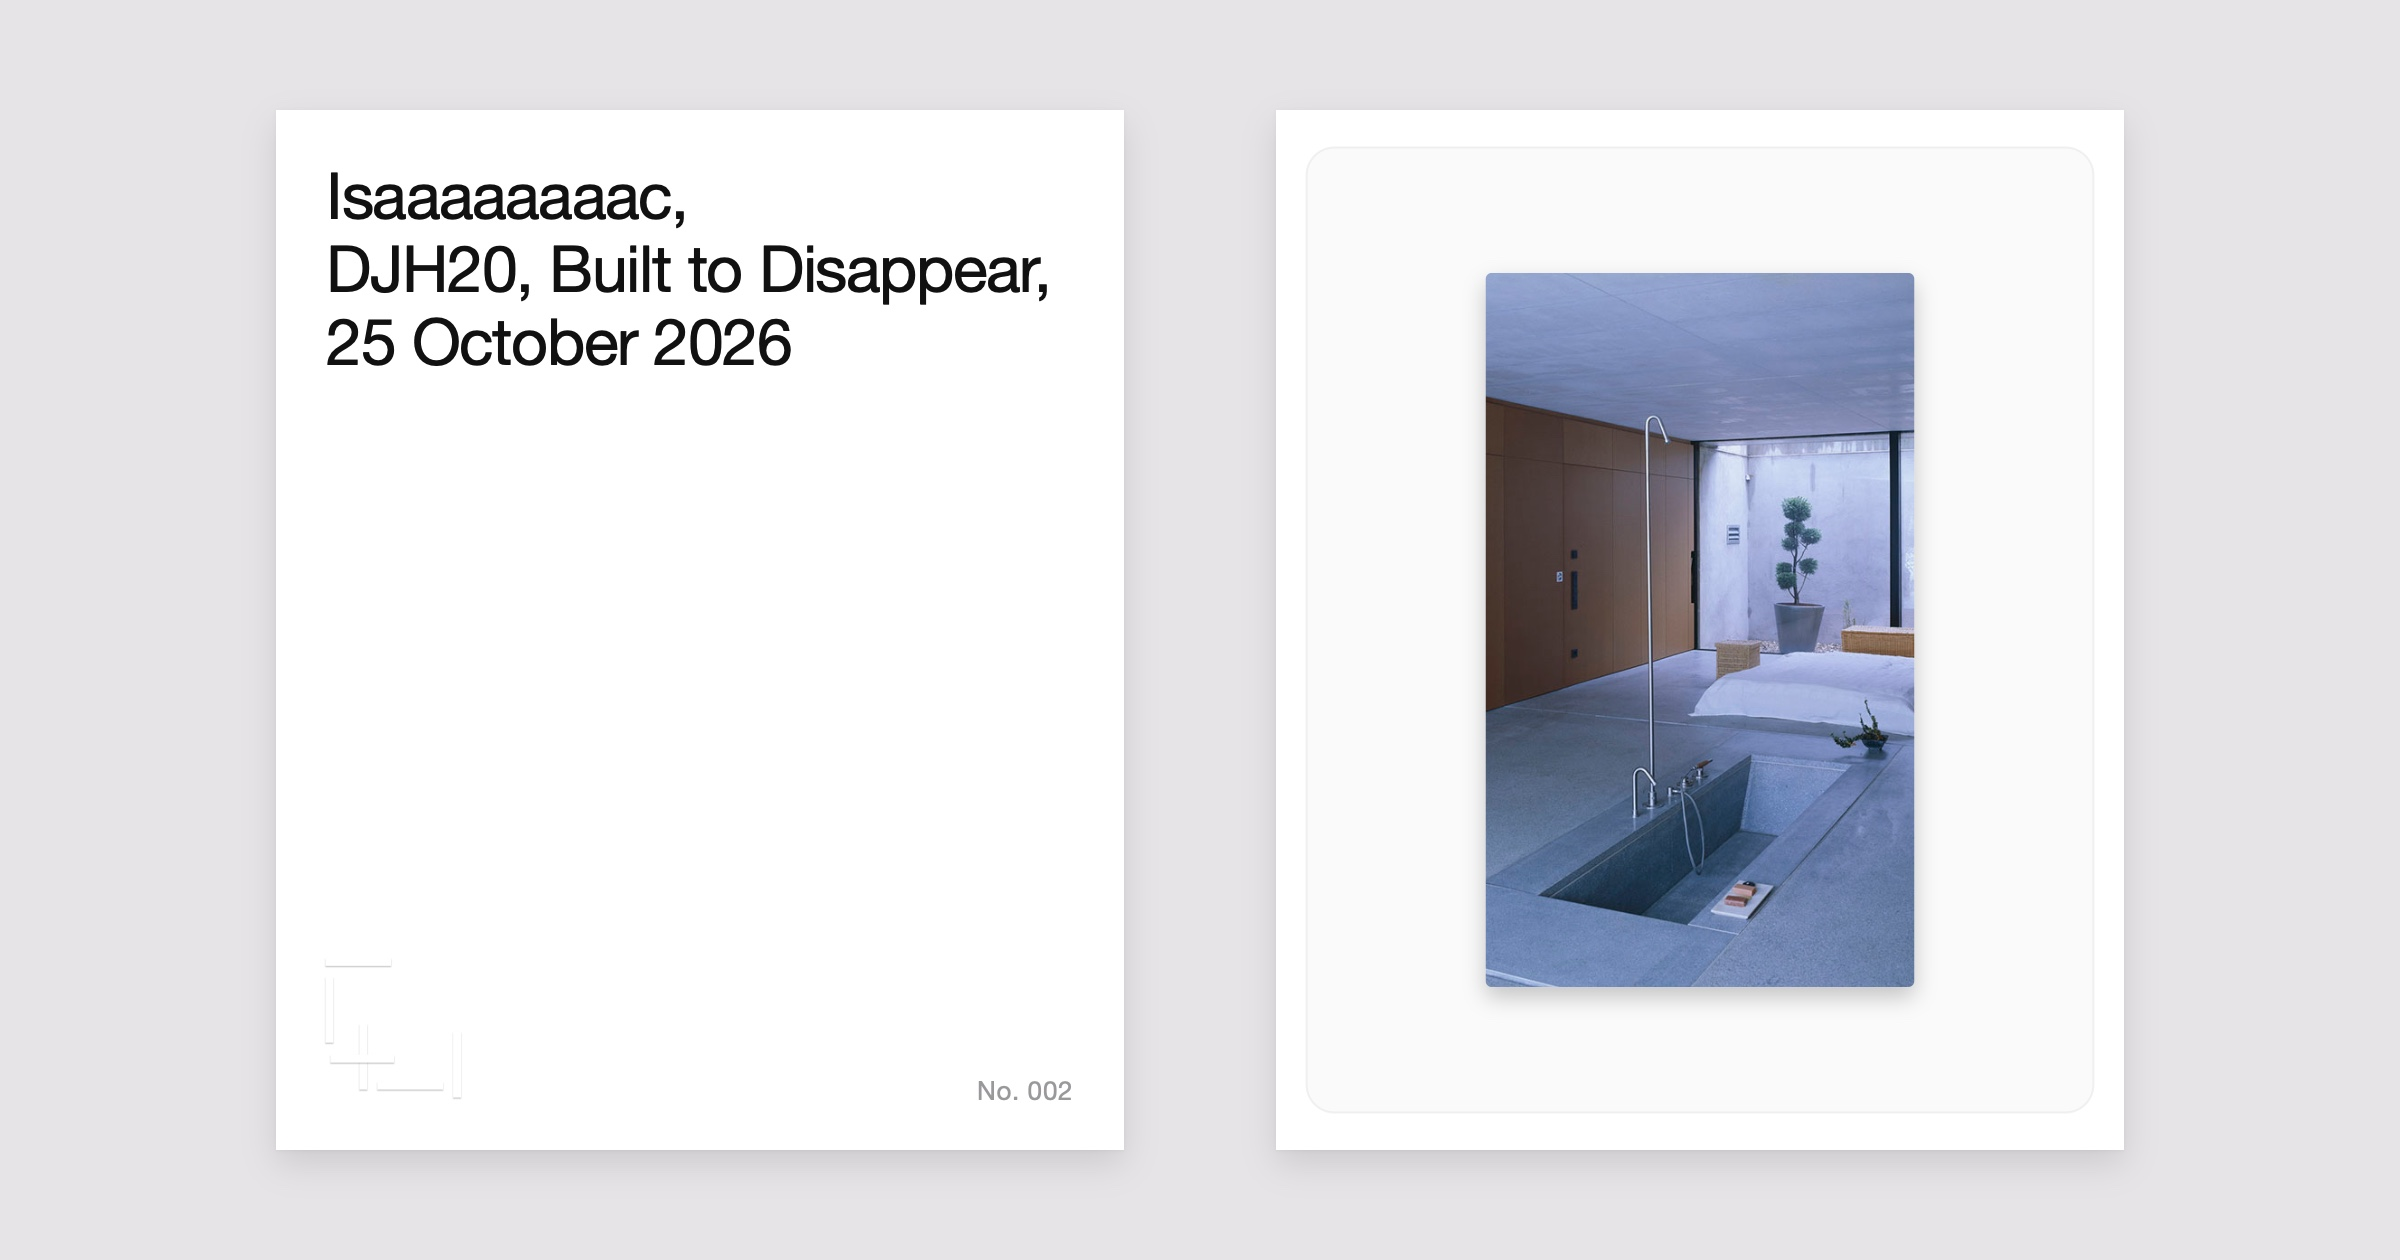
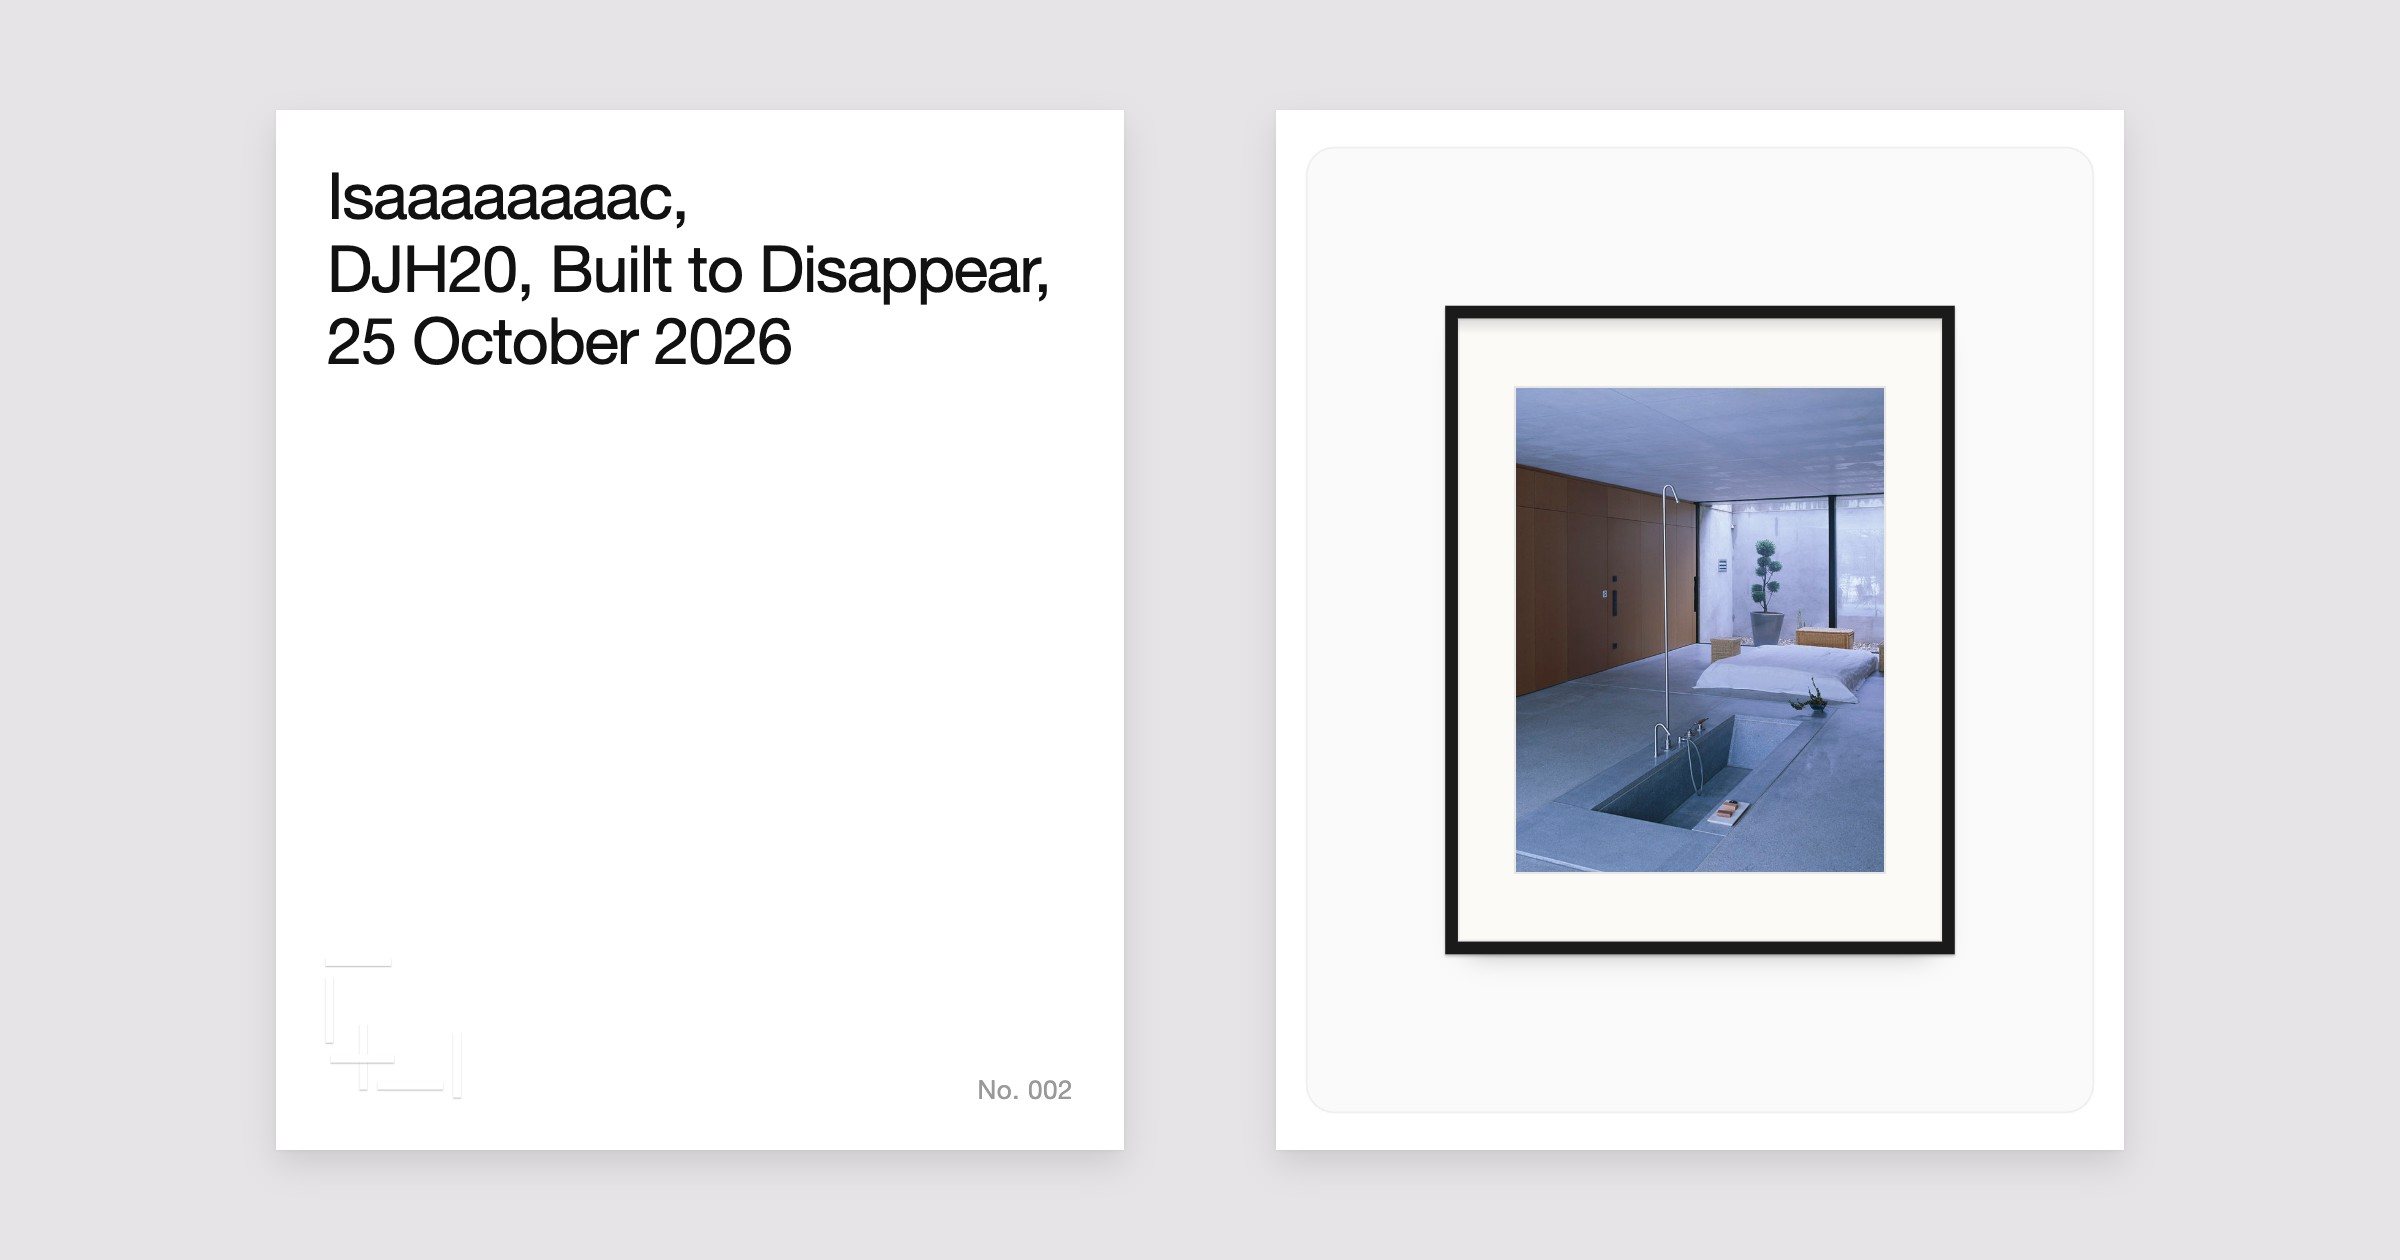
Curation: link previews show the cover framed as on the feed — black moulding, white mat, the bare photo (no window bar); all four redrawn

diff --git a/assets/sharecard.js b/assets/sharecard.js
@@ -1,6 +1,7 @@
 /* The link-preview picture for a curation topic (1200×630): the topic as it
-   lies on the table — its white museum label on the left, the cover resting
-   in its tray on the right, on the table's grey. Shared by Studio (drawn at
+   lies on the table — its white museum label on the left, the cover framed
+   in its tray on the right (the feed's "frame": black moulding, wide white
+   mat), on the table's grey. Shared by Studio (drawn at
    publish) and any page that needs to redraw one.
    window.BtbrShareCard.draw({ author, title, desc, date, no }, coverURL) → Promise<canvas> */
 (function () {
@@ -15,6 +16,14 @@
       im.onload = function () { res(im); }; im.onerror = function () { res(null); };
       im.src = src;
     });
+  }
+  // a board window (MacWin's Preview window baked at 2×) → the part holding
+  // just its photo, as the feed shows it (same crop as app.js bareURL)
+  function photoRect(im, src) {
+    var nw = im.naturalWidth, nh = im.naturalHeight;
+    if (!/\/board-\d+-\d+\.png($|\?)/.test(src || "")) return [0, 0, nw, nh];
+    var k = Math.max(nw / 726, nh / 760), e = 5 * k, x = 3 * k + e, y = 37 * k + e;
+    return [x, y, nw - 2 * x, nh - 40 * k - 2 * e];
   }
   // the white objects: matte, square-cut, lit from above (as on the site)
   function paper(ctx, x, y, w, h) {
@@ -86,18 +95,30 @@
       var wi = 0.036, wx = tx + cw * wi, wy = top + ch * wi, ww = cw * (1 - 2 * wi), wh = ch * (1 - 2 * wi);
       ctx.save(); rrect(ctx, wx, wy, ww, wh, 14); ctx.fillStyle = "#fafafa"; ctx.fill();
       ctx.strokeStyle = "rgba(40, 30, 40, 0.06)"; ctx.lineWidth = 1; ctx.stroke(); ctx.restore();
-      var mh = wh * 0.74, mw = mh * 3 / 5, mx = wx + (ww - mw) / 2, my = wy + (wh - mh) / 2;
+      // the frame, hung in the well as on the feed (styles.css .tray-art/.tf-*)
+      var ah = wh * 0.84, aw = ah * 3 / 4.2, ax = wx + (ww - aw) / 2, ay = wy + (wh - ah) / 2, cq = aw / 100;
+      var fx = ax + aw * 0.06, fy = ay + ah * 0.1, fw = aw * 0.88, fh = ah * 0.8;
       ctx.save();
-      ctx.shadowColor = "rgba(0, 0, 0, 0.22)"; ctx.shadowBlur = 22; ctx.shadowOffsetY = 10;
-      rrect(ctx, mx, my, mw, mh, 3); ctx.fillStyle = "#ebebef"; ctx.fill();
+      ctx.shadowColor = "rgba(0, 0, 0, 0.4)"; ctx.shadowBlur = 30; ctx.shadowOffsetY = 18;
+      ctx.fillStyle = "#1b1a1a"; ctx.fillRect(fx + 12, fy + 12, fw - 24, fh - 24);
+      ctx.shadowColor = "rgba(0, 0, 0, 0.25)"; ctx.shadowBlur = 3; ctx.shadowOffsetY = 2;
+      ctx.fillRect(fx, fy, fw, fh);
       ctx.restore();
+      var bx = fx + 2.2 * cq, by = fy + 2.2 * cq, bw = fw - 4.4 * cq, bh = fh - 4.4 * cq;
+      ctx.fillStyle = "#fbfaf7"; ctx.fillRect(bx, by, bw, bh);
+      var g = ctx.createLinearGradient(0, by, 0, by + 8);
+      g.addColorStop(0, "rgba(0, 0, 0, 0.12)"); g.addColorStop(1, "rgba(0, 0, 0, 0)");
+      ctx.fillStyle = g; ctx.fillRect(bx, by, bw, 8);
+      ctx.strokeStyle = "rgba(0, 0, 0, 0.06)"; ctx.lineWidth = 1; ctx.strokeRect(bx + 0.5, by + 0.5, bw - 1, bh - 1);
+      var px = bx + 10 * cq, py = by + 12 * cq, pw = bw - 20 * cq, ph = bh - 24 * cq;
+      ctx.fillStyle = "#ebebef"; ctx.fillRect(px, py, pw, ph);
       if (cover) {
-        ctx.save(); rrect(ctx, mx, my, mw, mh, 3); ctx.clip();
-        var s = Math.max(mw / cover.naturalWidth, mh / cover.naturalHeight);
-        var dw = cover.naturalWidth * s, dh = cover.naturalHeight * s;
-        ctx.drawImage(cover, mx + (mw - dw) / 2, my + (mh - dh) / 2, dw, dh);
+        var r = photoRect(cover, coverURL), s = Math.max(pw / r[2], ph / r[3]), sw = pw / s, sh = ph / s;
+        ctx.save(); ctx.beginPath(); ctx.rect(px, py, pw, ph); ctx.clip();
+        ctx.drawImage(cover, r[0] + (r[2] - sw) / 2, r[1] + (r[3] - sh) / 2, sw, sh, px, py, pw, ph);
         ctx.restore();
       }
+      ctx.strokeStyle = "rgba(0, 0, 0, 0.08)"; ctx.strokeRect(px - 0.5, py - 0.5, pw + 1, ph + 1);
       return c;
     });
   }

diff --git a/curation/marathon/index.html b/curation/marathon/index.html
@@ -12,13 +12,13 @@
   <meta property="og:title" content="Marathon" />
   <meta property="og:description" content="Isaaaaaaaac — Beyond the Familiar: Bungie’s High-Concept Gamble with Marathon" />
   <meta property="og:url" content="https://buildtoberemembered.com/curation/marathon/" />
-  <meta property="og:image" content="https://buildtoberemembered.com/curation/media/marathon/share.jpg" />
+  <meta property="og:image" content="https://buildtoberemembered.com/curation/media/marathon/share.jpg?v=2" />
   <meta property="og:image:width" content="2400" />
   <meta property="og:image:height" content="1260" />
   <meta name="twitter:card" content="summary_large_image" />
   <meta name="twitter:title" content="Marathon" />
   <meta name="twitter:description" content="Isaaaaaaaac — Beyond the Familiar: Bungie’s High-Concept Gamble with Marathon" />
-  <meta name="twitter:image" content="https://buildtoberemembered.com/curation/media/marathon/share.jpg" />
+  <meta name="twitter:image" content="https://buildtoberemembered.com/curation/media/marathon/share.jpg?v=2" />
   <meta name="theme-color" content="#e6e4e6" />
   <link rel="icon" type="image/png" sizes="64x64" href="/assets/favicon-p3-dark.png?v=5" media="(prefers-color-scheme: light)" />
   <link rel="icon" type="image/png" sizes="64x64" href="/assets/favicon-p3-light.png?v=5" media="(prefers-color-scheme: dark)" />

diff --git a/curation/riots/index.html b/curation/riots/index.html
@@ -12,13 +12,13 @@
   <meta property="og:title" content="RIOTS" />
   <meta property="og:description" content="Isaaaaaaaac — Riots seen through art" />
   <meta property="og:url" content="https://buildtoberemembered.com/curation/riots/" />
-  <meta property="og:image" content="https://buildtoberemembered.com/curation/media/riots/share.jpg" />
+  <meta property="og:image" content="https://buildtoberemembered.com/curation/media/riots/share.jpg?v=2" />
   <meta property="og:image:width" content="2400" />
   <meta property="og:image:height" content="1260" />
   <meta name="twitter:card" content="summary_large_image" />
   <meta name="twitter:title" content="RIOTS" />
   <meta name="twitter:description" content="Isaaaaaaaac — Riots seen through art" />
-  <meta name="twitter:image" content="https://buildtoberemembered.com/curation/media/riots/share.jpg" />
+  <meta name="twitter:image" content="https://buildtoberemembered.com/curation/media/riots/share.jpg?v=2" />
   <meta name="theme-color" content="#e6e4e6" />
   <link rel="icon" type="image/png" sizes="64x64" href="/assets/favicon-p3-dark.png?v=5" media="(prefers-color-scheme: light)" />
   <link rel="icon" type="image/png" sizes="64x64" href="/assets/favicon-p3-light.png?v=5" media="(prefers-color-scheme: dark)" />

diff --git a/curation/gnuhr/index.html b/curation/gnuhr/index.html
@@ -12,13 +12,13 @@
   <meta property="og:title" content="Gnuhr" />
   <meta property="og:description" content="Isaaaaaaaac — Design as a Solution" />
   <meta property="og:url" content="https://buildtoberemembered.com/curation/gnuhr/" />
-  <meta property="og:image" content="https://buildtoberemembered.com/curation/media/gnuhr/share.jpg" />
+  <meta property="og:image" content="https://buildtoberemembered.com/curation/media/gnuhr/share.jpg?v=2" />
   <meta property="og:image:width" content="2400" />
   <meta property="og:image:height" content="1260" />
   <meta name="twitter:card" content="summary_large_image" />
   <meta name="twitter:title" content="Gnuhr" />
   <meta name="twitter:description" content="Isaaaaaaaac — Design as a Solution" />
-  <meta name="twitter:image" content="https://buildtoberemembered.com/curation/media/gnuhr/share.jpg" />
+  <meta name="twitter:image" content="https://buildtoberemembered.com/curation/media/gnuhr/share.jpg?v=2" />
   <meta name="theme-color" content="#e6e4e6" />
   <link rel="icon" type="image/png" sizes="64x64" href="/assets/favicon-p3-dark.png?v=5" media="(prefers-color-scheme: light)" />
   <link rel="icon" type="image/png" sizes="64x64" href="/assets/favicon-p3-light.png?v=5" media="(prefers-color-scheme: dark)" />

diff --git a/curation/djh20/index.html b/curation/djh20/index.html
@@ -12,13 +12,13 @@
   <meta property="og:title" content="DJH20" />
   <meta property="og:description" content="Isaaaaaaaac — Built to Disappear" />
   <meta property="og:url" content="https://buildtoberemembered.com/curation/djh20/" />
-  <meta property="og:image" content="https://buildtoberemembered.com/curation/media/djh20/share.jpg" />
+  <meta property="og:image" content="https://buildtoberemembered.com/curation/media/djh20/share.jpg?v=2" />
   <meta property="og:image:width" content="2400" />
   <meta property="og:image:height" content="1260" />
   <meta name="twitter:card" content="summary_large_image" />
   <meta name="twitter:title" content="DJH20" />
   <meta name="twitter:description" content="Isaaaaaaaac — Built to Disappear" />
-  <meta name="twitter:image" content="https://buildtoberemembered.com/curation/media/djh20/share.jpg" />
+  <meta name="twitter:image" content="https://buildtoberemembered.com/curation/media/djh20/share.jpg?v=2" />
   <meta name="theme-color" content="#e6e4e6" />
   <link rel="icon" type="image/png" sizes="64x64" href="/assets/favicon-p3-dark.png?v=5" media="(prefers-color-scheme: light)" />
   <link rel="icon" type="image/png" sizes="64x64" href="/assets/favicon-p3-light.png?v=5" media="(prefers-color-scheme: dark)" />

diff --git a/admin/index.html b/admin/index.html
@@ -84,7 +84,7 @@
   <script src="https://cdn.jsdelivr.net/npm/jszip@3.10.1/dist/jszip.min.js"></script>
   <script src="https://cdn.jsdelivr.net/npm/gif.js@0.2.0/dist/gif.js"></script>
   <script src="/assets/macwin.js?v=4"></script>
-  <script src="/assets/sharecard.js?v=1"></script>
+  <script src="/assets/sharecard.js?v=2"></script>
   <script src="/assets/prints.js?v=2"></script>
   <script src="/admin/editor.js?v=41"></script>
 </body>
